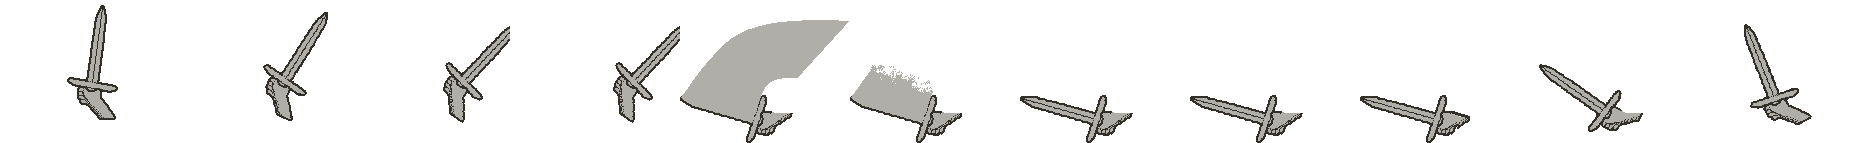
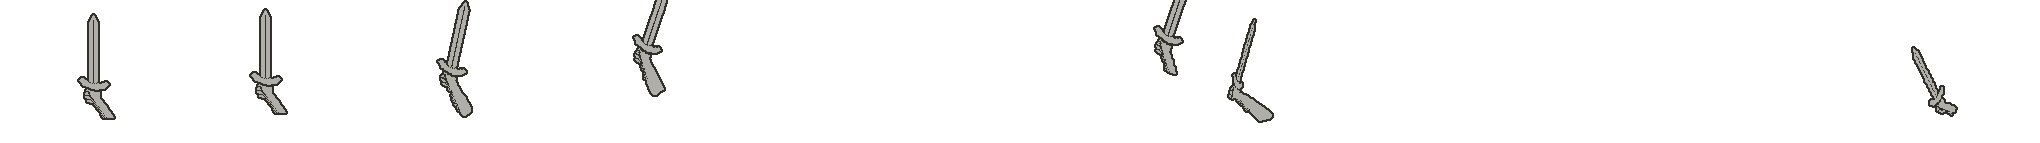
Update melee sword animation

diff --git a/src/game/player/spells/spellData.c b/src/game/player/spells/spellData.c
@@ -147,7 +147,7 @@ SpellData baseSpellData[SPELL_COUNT] = {
             .drawX = 61,
             .drawY = 8,
             .frameTime = 0.075f,
-            .activeFrame = 5
+            .activeFrame = 8
         }
     },
     [SPELL_ROARING_SHOUT] = {

diff --git a/src/globals/globals.h b/src/globals/globals.h
@@ -17,7 +17,7 @@
 #define MAP_HEIGHT 32
 
 // 1..4 = enemy rooms, 5 = boss room
-#define DEBUG_SKIP_TO_ROOM 5
+#define DEBUG_SKIP_TO_ROOM 0
 #define DEBUG_INSTANT_ROOM_CLEAR 0
 #define DEBUG_INSTANT_KILL_BOSS 0
 #define DEBUG_AREA_OVERRIDE 0
